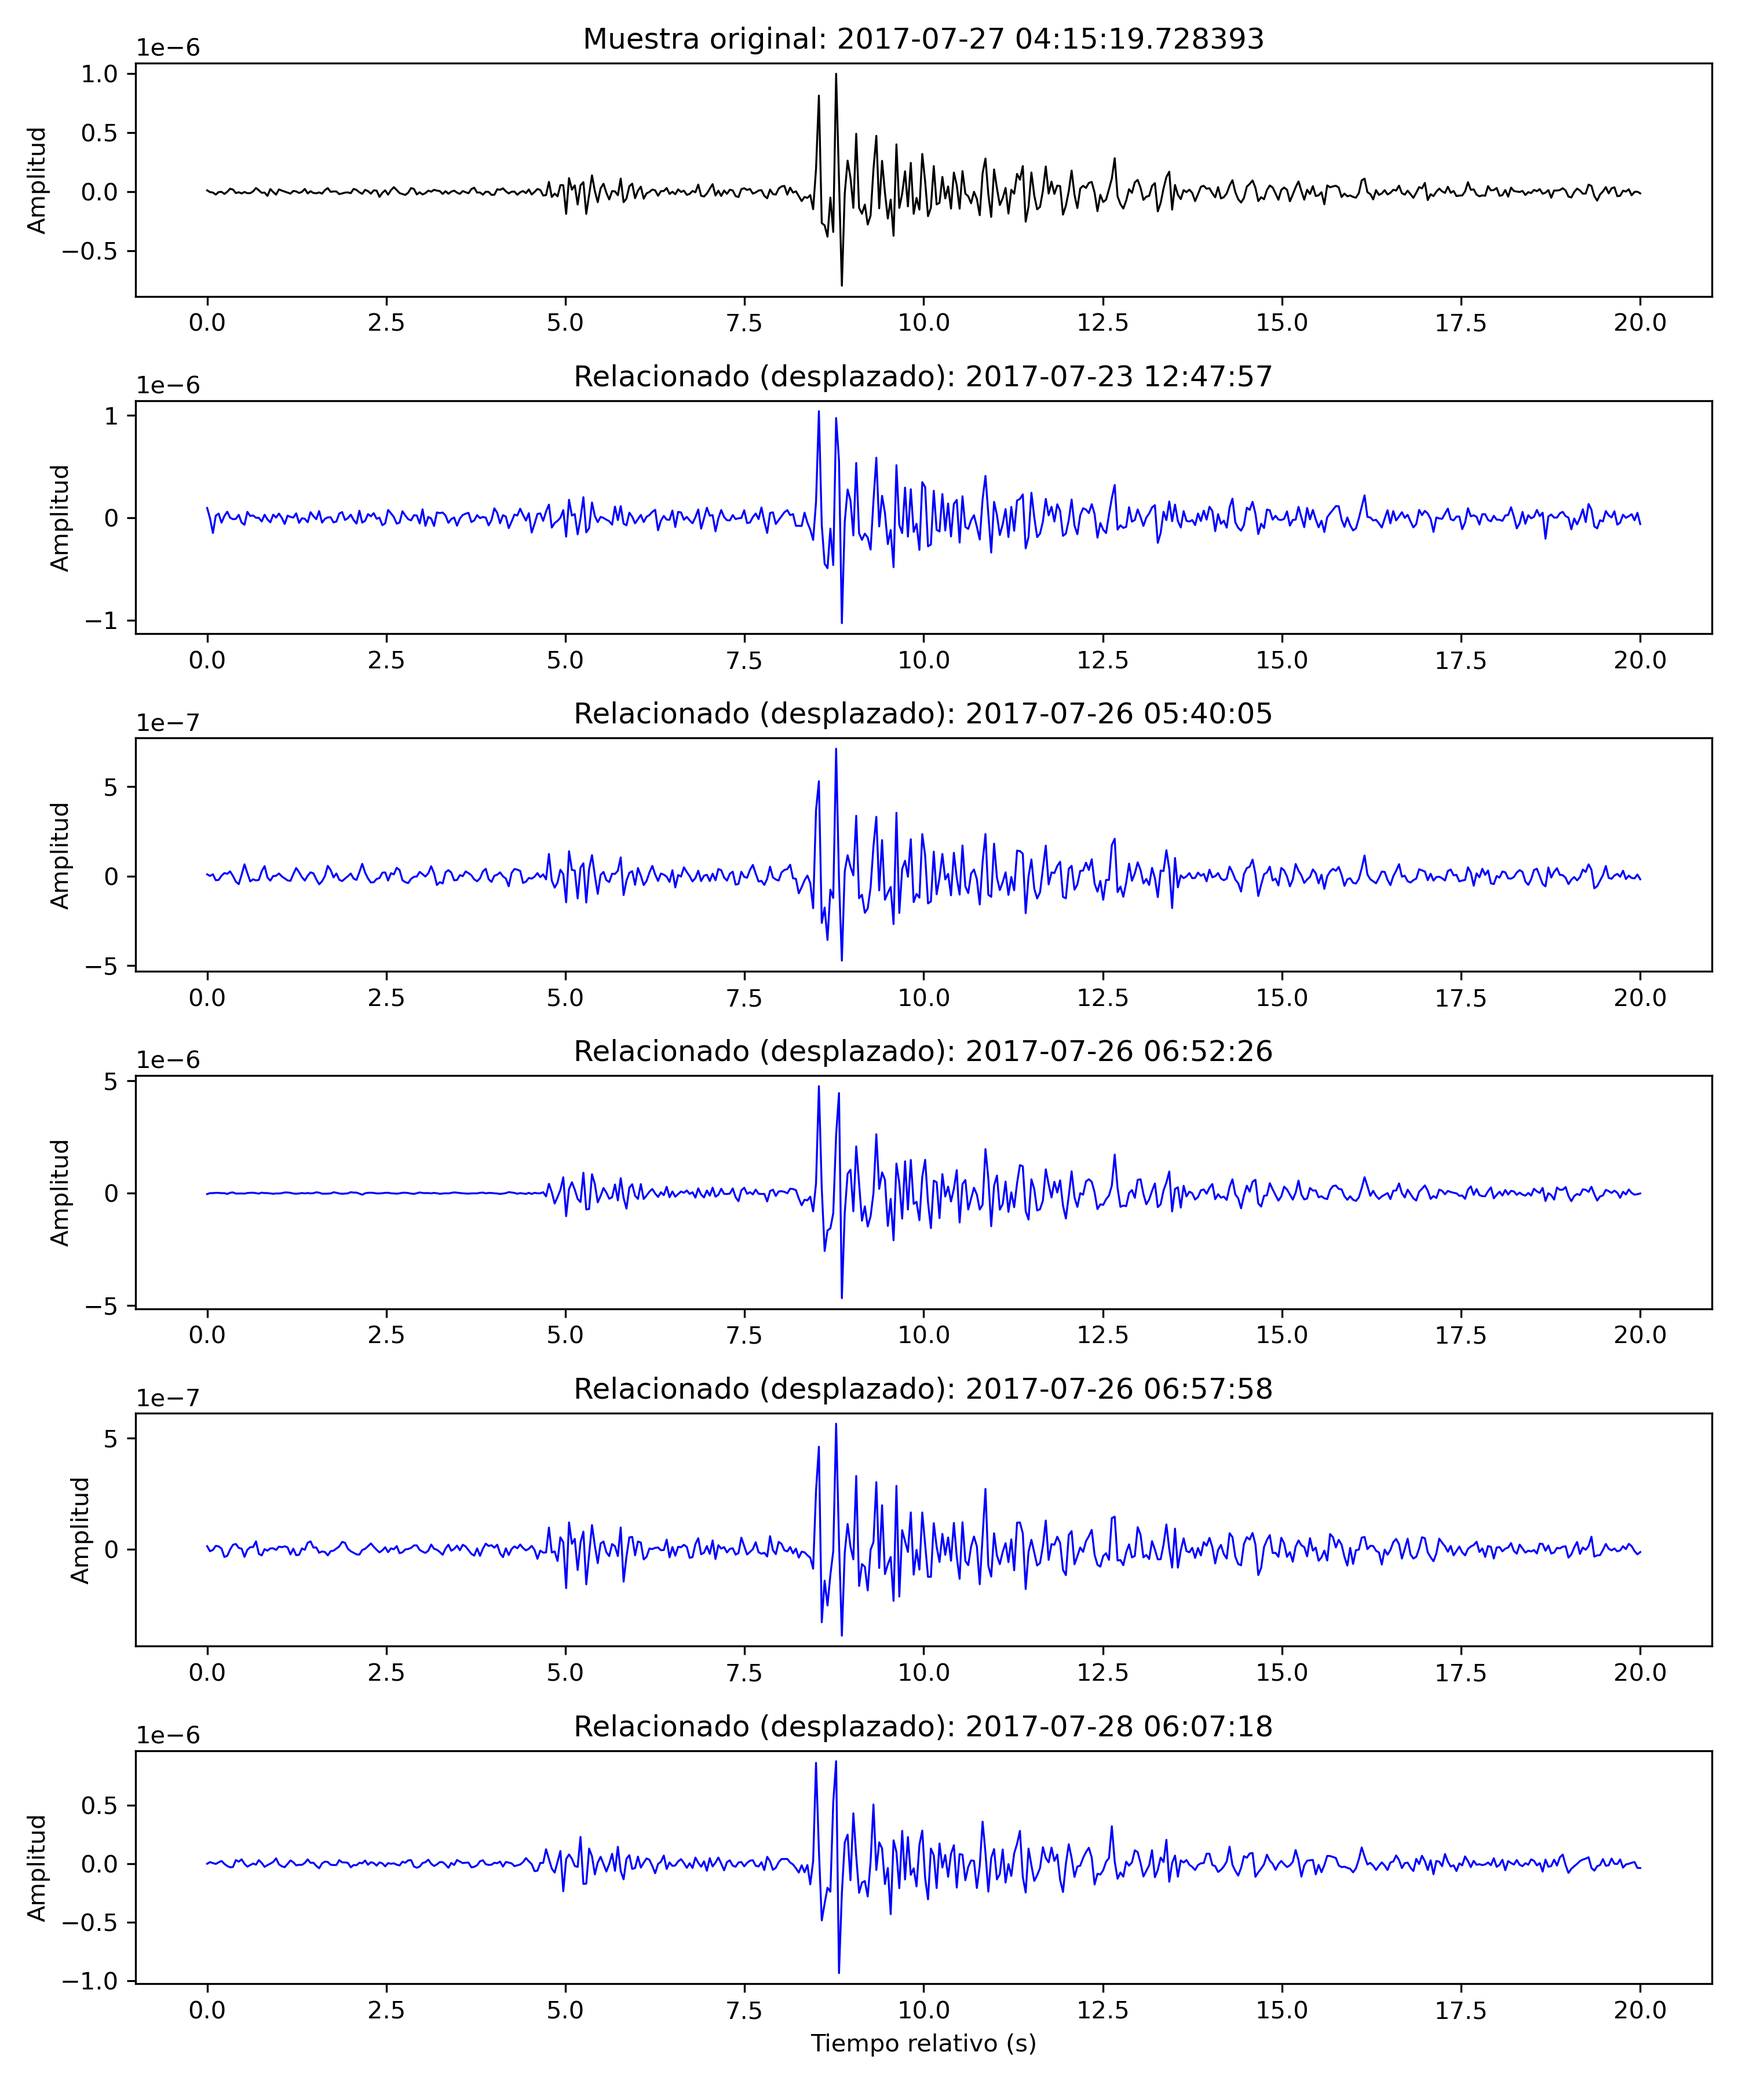
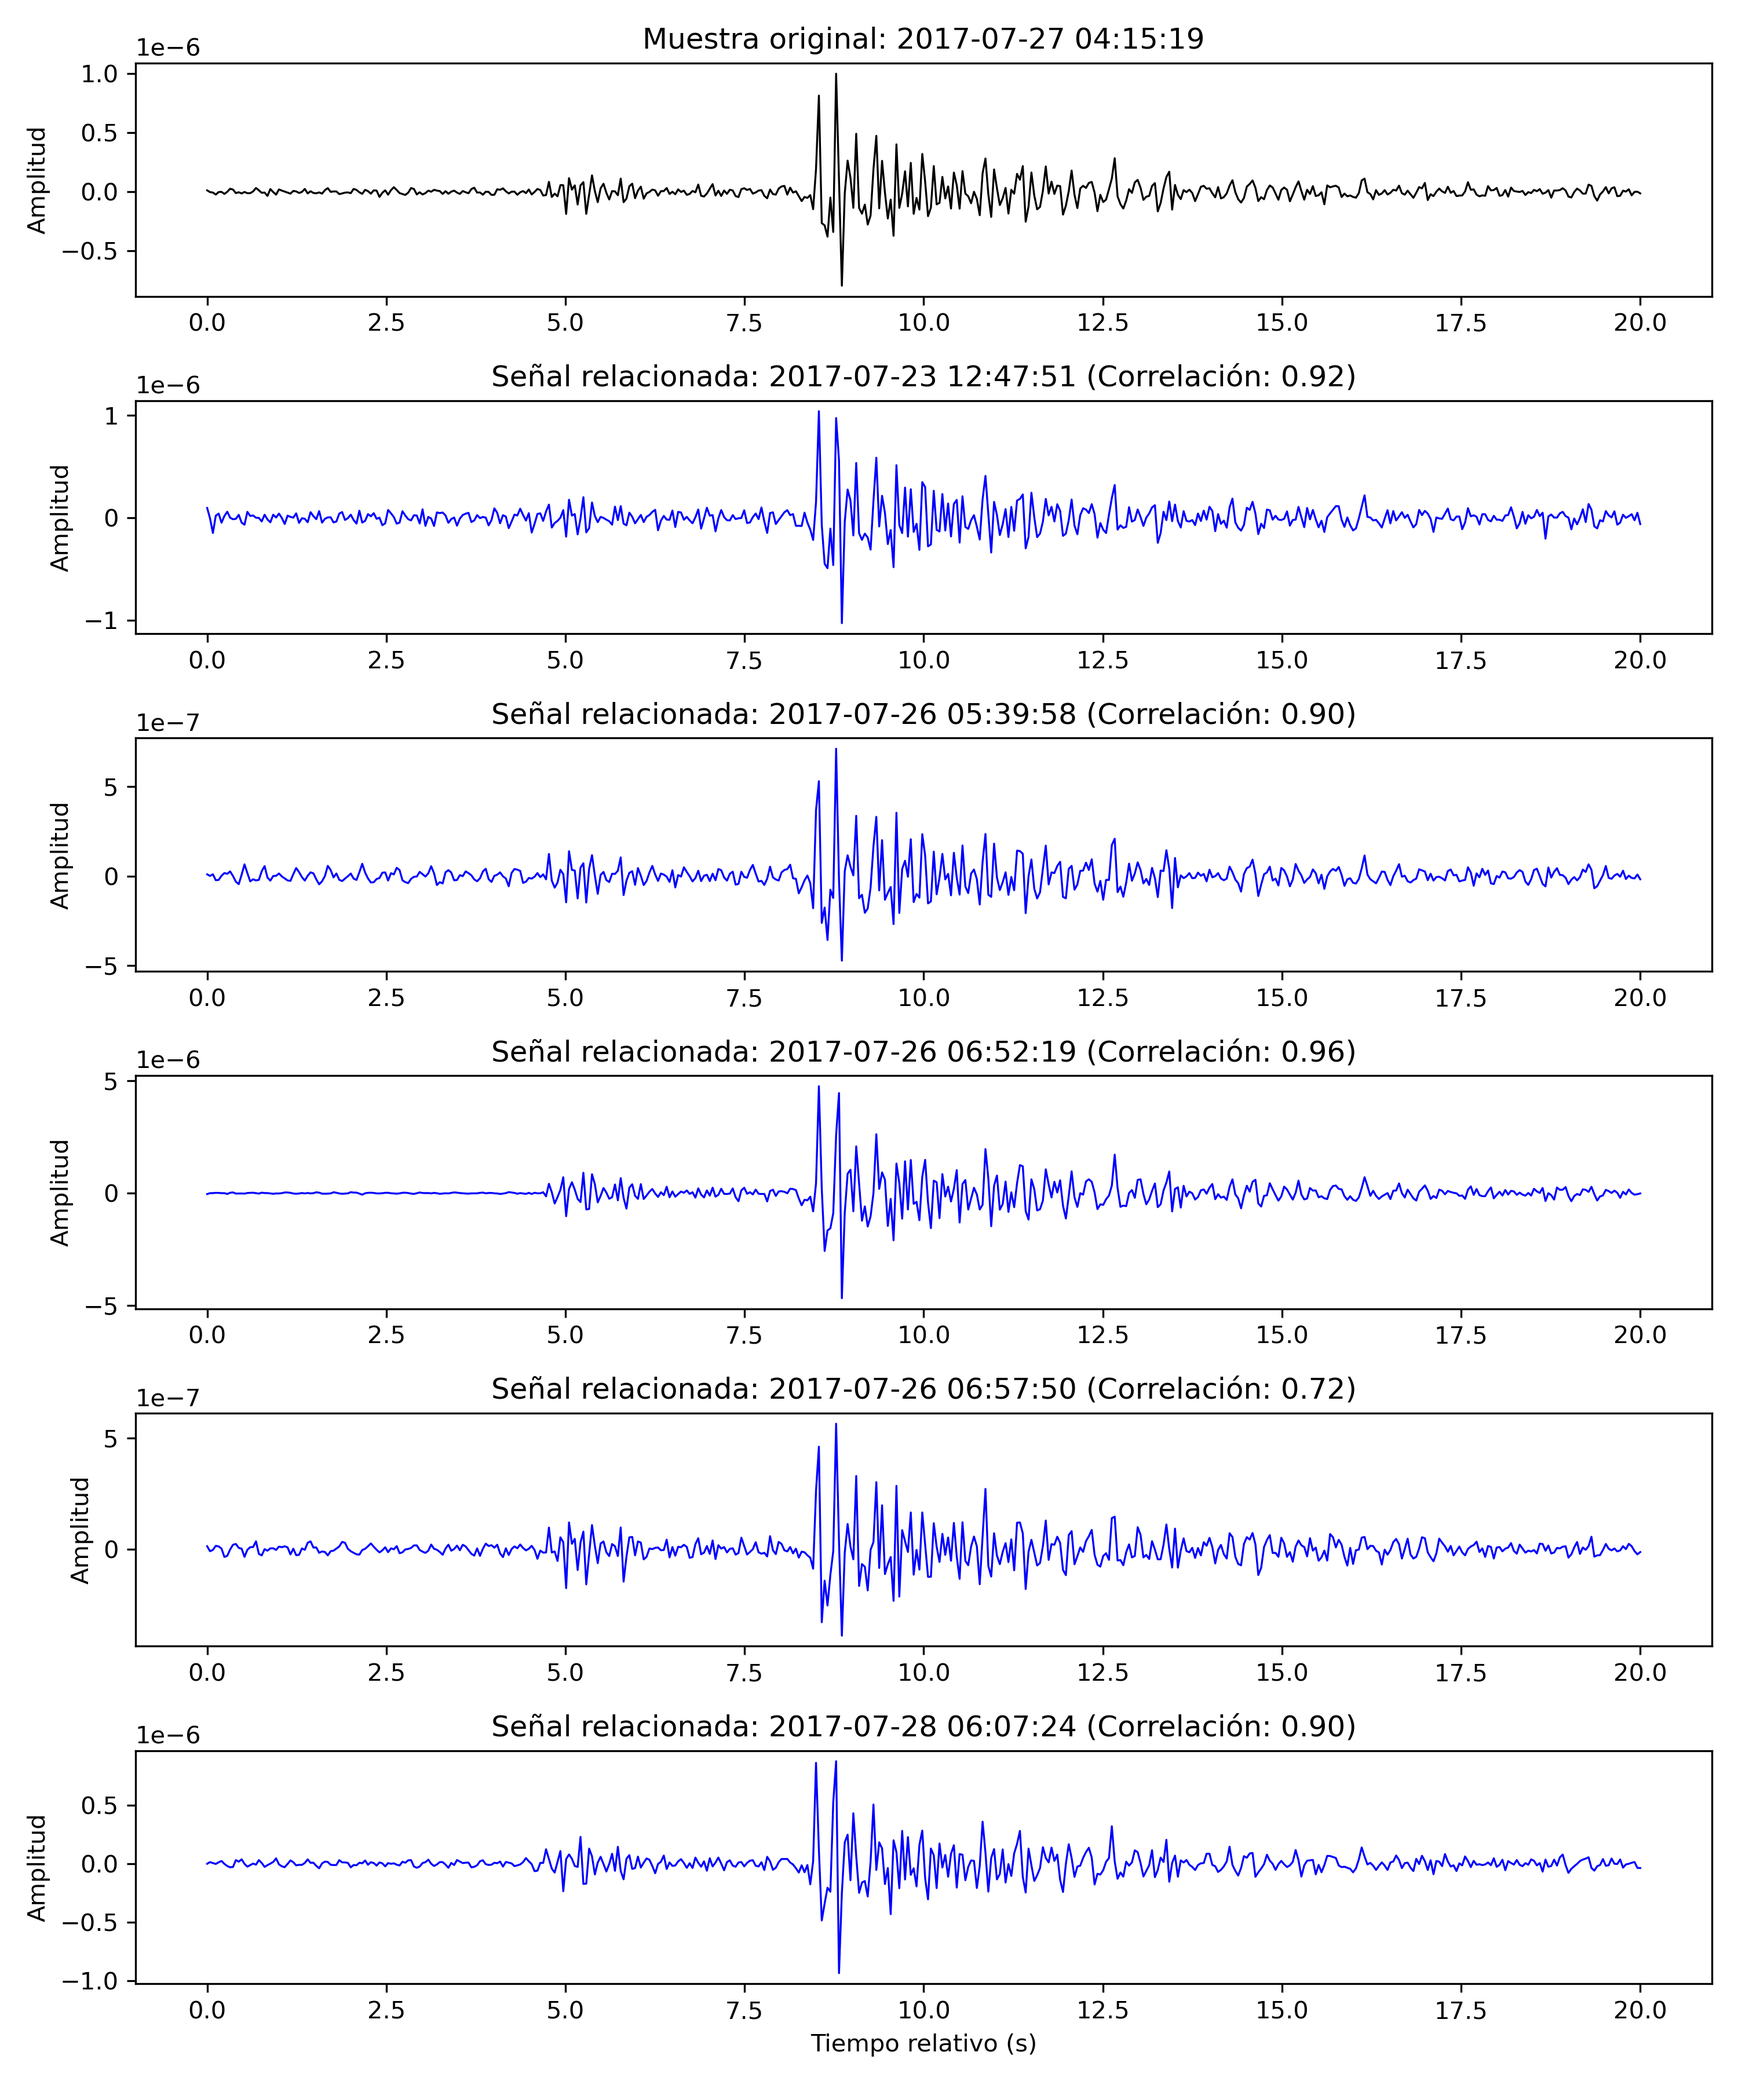
nuevos datos

diff --git a/scamp_1mes_0/top_detecciones_28.07.py b/scamp_1mes_0/top_detecciones_28.07.py
@@ -16,6 +16,7 @@ start_datetime = start_time.datetime
 
 # Cargar los índices de correlación
 index = np.load('index_pearson.npy')
+profile = np.load('profile_pearson.npy')
 cc_suma = np.load('cc_suma.npy')
 
 # Agrupar índices por día y seleccionar el índice con más detecciones de cada día
@@ -43,6 +44,7 @@ related_indices = np.arange(start_range, end_range)                 # Incluir to
 
 # Buscar las secuencias más correlacionadas para cada índice
 related_times = []  # Cambiamos a lista para verificar la diferencia temporal
+related_profiles = []
 min_time_diff = 20  # Diferencia mínima en segundos
 
 for idx in related_indices:
@@ -54,9 +56,11 @@ for idx in related_indices:
         # Verificar si cumple con la diferencia mínima respecto a los tiempos ya guardados
         if all(abs((correlated_time - t).total_seconds()) >= min_time_diff for t in related_times):
             related_times.append(correlated_time)  # Agregar tiempo si cumple la condición
+            related_profiles.append(profile[most_correlated_idx])
 
-# Ordenar los tiempos para graficarlos en secuencia
-related_times = sorted(related_times)
+# Ordenar los tiempos y perfiles relacionados
+sorted_related = sorted(zip(related_times, related_profiles), key=lambda x: x[0])
+related_times, related_profiles = zip(*sorted_related) if sorted_related else ([], [])
 
 # Configuración del rango de tiempo para los gráficos (5 segundos antes y 15 segundos después)
 pre_duration = 5                                    # segundos antes
@@ -66,7 +70,7 @@ segment_samples = int(segment_duration * sampling_rate)
 pre_samples = int(pre_duration * sampling_rate)
 
 # Desplazamiento en segundos para todas las detecciones relacionadas
-time_offset = 7.8
+time_offset = 8.01
 
 # Crear la figura y los subgráficos
 num_subplots = len(related_times) + 1  # Uno para la muestra original + cada secuencia relacionada
@@ -86,11 +90,12 @@ main_signal = signal[main_start_sample:main_end_sample]
 relative_time = np.linspace(0, segment_duration, len(main_signal))  # Tiempo relativo para el eje x
 
 axes[0].plot(relative_time, main_signal, color='black', linewidth=0.8)
-axes[0].set_title(f"Muestra original: {start_datetime + timedelta(seconds=main_start_sample / sampling_rate)}")
+original_time_str = (start_datetime + timedelta(seconds=main_start_sample / sampling_rate)).strftime('%Y-%m-%d %H:%M:%S')
+axes[0].set_title(f"Muestra original: {original_time_str}")
 axes[0].set_ylabel("Amplitud")
 
 # Graficar las secuencias relacionadas con el desplazamiento de tiempo
-for i, correlated_time in enumerate(related_times):
+for i, (correlated_time, correlation) in enumerate(zip(related_times, related_profiles)):
     # Convertir tiempo relacionado a UTCDateTime
     correlated_time_utc = UTCDateTime(correlated_time) + time_offset  # Aplicar desplazamiento
     
@@ -113,7 +118,8 @@ for i, correlated_time in enumerate(related_times):
     
     # Graficar
     axes[i + 1].plot(relative_time, segment_signal, color='blue', linewidth=0.8)
-    axes[i + 1].set_title(f"Relacionado: {correlated_time_utc.datetime.strftime('%Y-%m-%d %H:%M:%S')}")
+    time_str = correlated_time.strftime('%Y-%m-%d %H:%M:%S')
+    axes[i + 1].set_title(f"Señal relacionada: {time_str} (Correlación: {correlation:.2f})")
     axes[i + 1].set_ylabel("Amplitud")
 
 # Ajustar ejes y etiquetas
@@ -121,7 +127,7 @@ axes[-1].set_xlabel("Tiempo relativo (s)")
 plt.tight_layout()
 
 # Guardar la figura como imagen PNG
-plt.savefig("top_detecciones_28.07.png", format='png', dpi=300)
+plt.savefig("top_detecciones_28.07a.png", format='png', dpi=300)
 
 # Mostrar la figura
 plt.show()

diff --git a/scamp_1mes_0/top_detecciones_27.07.py b/scamp_1mes_0/top_detecciones_27.07.py
@@ -16,6 +16,7 @@ start_datetime = start_time.datetime
 
 # Cargar los índices de correlación
 index = np.load('index_pearson.npy')
+profile = np.load('profile_pearson.npy')
 cc_suma = np.load('cc_suma.npy')
 
 # Agrupar índices por día y seleccionar el índice con más detecciones de cada día
@@ -43,6 +44,7 @@ related_indices = np.arange(start_range, end_range)                 # Incluir to
 
 # Buscar las secuencias más correlacionadas para cada índice
 related_times = []  # Cambiamos a lista para verificar la diferencia temporal
+related_profiles = []
 min_time_diff = 20  # Diferencia mínima en segundos
 
 for idx in related_indices:
@@ -54,9 +56,11 @@ for idx in related_indices:
         # Verificar si cumple con la diferencia mínima respecto a los tiempos ya guardados
         if all(abs((correlated_time - t).total_seconds()) >= min_time_diff for t in related_times):
             related_times.append(correlated_time)  # Agregar tiempo si cumple la condición
+            related_profiles.append(profile[most_correlated_idx])
 
-# Ordenar los tiempos para graficarlos en secuencia
-related_times = sorted(related_times)
+# Ordenar los tiempos y perfiles relacionados
+sorted_related = sorted(zip(related_times, related_profiles), key=lambda x: x[0])
+related_times, related_profiles = zip(*sorted_related) if sorted_related else ([], [])
 
 # Configuración del rango de tiempo para los gráficos (5 segundos antes y 15 segundos después)
 pre_duration = 5                                    # segundos antes
@@ -66,7 +70,7 @@ segment_samples = int(segment_duration * sampling_rate)
 pre_samples = int(pre_duration * sampling_rate)
 
 # Desplazamientos en segundos para las detecciones relacionadas
-time_offsets = [6.215, 7.217, 7.47, 8.026, -6.679]  # Ejemplo: tiempo de desplazamiento para las primeras detecciones
+time_offsets = [6.215, 7.217, 7.47, 8.026, -6.679]
 
 # Crear la figura y los subgráficos
 num_subplots = len(related_times) + 1  # Uno para la muestra original + cada secuencia relacionada
@@ -86,11 +90,12 @@ main_signal = signal[main_start_sample:main_end_sample]
 relative_time = np.linspace(0, segment_duration, len(main_signal))  # Tiempo relativo para el eje x
 
 axes[0].plot(relative_time, main_signal, color='black', linewidth=0.8)
-axes[0].set_title(f"Muestra original: {start_datetime + timedelta(seconds=main_start_sample / sampling_rate)}")
+original_time_str = (start_datetime + timedelta(seconds=main_start_sample / sampling_rate)).strftime('%Y-%m-%d %H:%M:%S')
+axes[0].set_title(f"Muestra original: {original_time_str}")
 axes[0].set_ylabel("Amplitud")
 
 # Graficar las secuencias relacionadas con desplazamiento de tiempo
-for i, correlated_time in enumerate(related_times):
+for i, (correlated_time, correlation) in enumerate(zip(related_times, related_profiles)):
     # Convertir tiempo relacionado a UTCDateTime
     correlated_time_utc = UTCDateTime(correlated_time)
     
@@ -117,7 +122,8 @@ for i, correlated_time in enumerate(related_times):
     
     # Graficar
     axes[i + 1].plot(relative_time, segment_signal, color='blue', linewidth=0.8)
-    axes[i + 1].set_title(f"Relacionado: {correlated_time_utc.datetime.strftime('%Y-%m-%d %H:%M:%S')}")
+    time_str = correlated_time.strftime('%Y-%m-%d %H:%M:%S')
+    axes[i + 1].set_title(f"Señal relacionada: {time_str} (Correlación: {correlation:.2f})")
     axes[i + 1].set_ylabel("Amplitud")
 
 # Ajustar ejes y etiquetas

diff --git a/scamp_1semana_opuesto/visualizacion_resultados.py b/scamp_1semana_opuesto/visualizacion_resultados.py
@@ -4,7 +4,7 @@ from obspy import read
 from datetime import datetime, timedelta
 
 # Leer los datos originales y los resultados generados
-data = read('../../Datos/C1.MT12.HH*.2017.207-209.mseed')
+data = read('../../Datos/C1.MT12.HH*.2017.204-210.mseed')
 signal = data[0].data
 stats = data[0].stats
 sampling_rate = stats.sampling_rate
@@ -13,7 +13,7 @@ sampling_rate = stats.sampling_rate
 profile = np.load('profile_pearson.npy')
 index = np.load('index_pearson.npy')
 
-# Crear un eje de tiempo en días (considerando la duración real: 3 días)
+# Crear un eje de tiempo en días (considerando la duración real: 7 días)
 time_signal = np.arange(0, len(signal)) / sampling_rate / 3600 / 24  # Señal completa en días
 time_profile = np.arange(0, len(profile)) / sampling_rate / 3600 / 24  # Perfiles e índices en días
 
@@ -27,9 +27,9 @@ filtered_time_indices = filtered_indices / sampling_rate / 3600 / 24  # Converti
 print(f"Detecciones con perfil > 0.8: {len(filtered_time_profile)}")
 
 # Extraer la fecha inicial y final del archivo
-start_year, start_day_of_year = 2017, 207
+start_year, start_day_of_year = 2017, 204
 start_date = datetime(start_year, 1, 1) + timedelta(days=start_day_of_year - 1)
-end_date = start_date + timedelta(days=3 - 1)  # 3 días en total
+end_date = start_date + timedelta(days=7 - 1)  # 7 días en total
 date_range_str = f"{start_date.strftime('%d/%m/%Y')} - {end_date.strftime('%d/%m/%Y')}"
 
 # Crear el gráfico con tres paneles
@@ -51,7 +51,7 @@ axes[1].legend()
 axes[2].scatter(filtered_time_profile, filtered_time_indices, color='teal', s=10, alpha=0.7)
 axes[2].set_title("Índice de Matrix Profile", fontsize=12)
 axes[2].set_ylabel("Tiempo (días)")
-axes[2].set_ylim(0, 3)  # Ajustar límites del eje Y para 3 días
+axes[2].set_ylim(0, 7)  # Ajustar límites del eje Y para 7 días
 axes[2].set_xlabel("Tiempo (días)")
 
 # Ajustes de diseño

diff --git a/scamp_1mes_0/detecciones_relacionadas.py b/scamp_1mes_0/detecciones_relacionadas.py
@@ -13,10 +13,12 @@ profile = np.load('profile_pearson.npy')
 # Señales principales definidas en el código original
 signals = [
     UTCDateTime(2017, 7, 23, 12, 47, 57),
+    UTCDateTime(2017, 7, 24, 0, 46, 25),
     UTCDateTime(2017, 7, 26, 5, 40, 5),
     UTCDateTime(2017, 7, 26, 6, 52, 26),
     UTCDateTime(2017, 7, 26, 6, 57, 58),
     UTCDateTime(2017, 7, 28, 6, 7, 18),
+    UTCDateTime(2017, 7, 28, 6, 46, 28),
 ]
 
 # Rango de revisión para encontrar señales relacionadas
@@ -72,7 +74,7 @@ for i, signal_time in enumerate(signals):
         related_segment = signal[start_idx_related:end_idx_related]
         axes[j + 1].plot(time_axis, related_segment, color='blue', linewidth=0.8)
         axes[j + 1].set_title(
-            f"Señal relacionada: {related_time.strftime('%Y-%m-%d %H:%M:%S')} (Correlación: {related_profile:.3f})"
+            f"Señal relacionada: {related_time.strftime('%Y-%m-%d %H:%M:%S')} (Correlación: {related_profile:.2f})"
         )
         axes[j + 1].set_ylabel("Amplitud")
         axes[j + 1].grid(False)  # Sin cuadrícula

diff --git a/scamp_3dias_2/scamp_3dias_2.py b/scamp_3dias_2/scamp_3dias_2.py
@@ -2,7 +2,7 @@ from obspy import read
 import pyscamp as mp
 import numpy as np
 
-Data   = read('C1.MT12.HH*.2017.204-210.mseed')
+Data   = read('C1.MT12.HHZ.2017.07.26-28.mseed')
 SR     = Data[0].stats.sampling_rate 
 sublen = int(11*SR)
 
